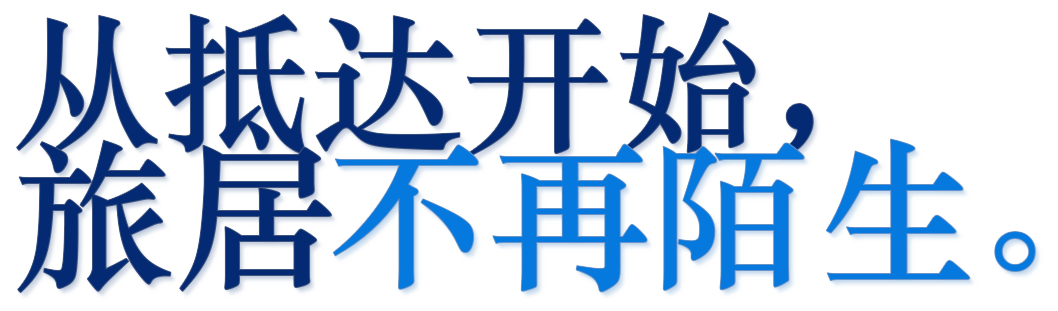
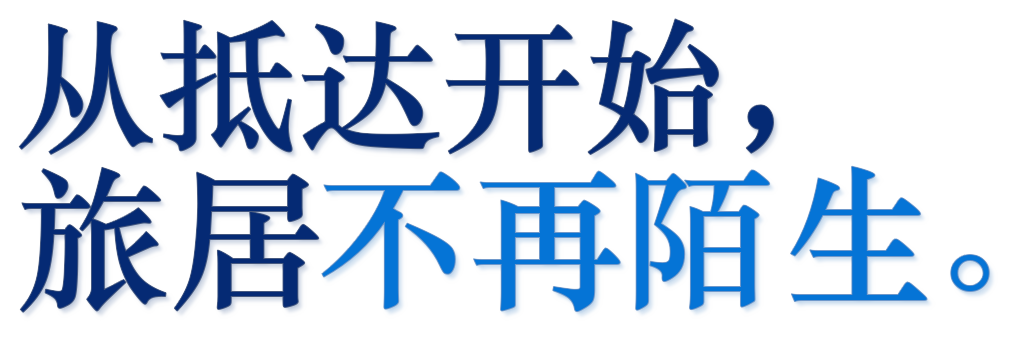
Relax promo hero spacing

Changed region(s): [[0.0, 0.0289, 0.9172, 0.955], [0.9172, 0.7235, 1.0, 0.8971]]

diff --git a/promo/css/style.css b/promo/css/style.css
@@ -95,7 +95,7 @@ a {
 }
 
 .hero {
-  min-height: 366px;
+  min-height: 386px;
 }
 
 .brand-row {
@@ -202,7 +202,7 @@ a {
 }
 
 .title-calligraphy {
-  margin: 60px 6px 13px;
+  margin: 66px 7px 20px;
   line-height: 0;
   filter: none;
 }
@@ -249,7 +249,7 @@ a {
 }
 
 .video-section {
-  margin-top: -76px;
+  margin-top: -62px;
 }
 
 .video-card {
@@ -561,7 +561,7 @@ a {
   }
 
   .hero {
-    min-height: 344px;
+    min-height: 365px;
   }
 
   .title {
@@ -570,11 +570,11 @@ a {
   }
 
   .title-calligraphy {
-    margin: 56px 4px 13px;
+    margin: 62px 5px 18px;
   }
 
   .video-section {
-    margin-top: -66px;
+    margin-top: -54px;
   }
 
   .primary-btn {